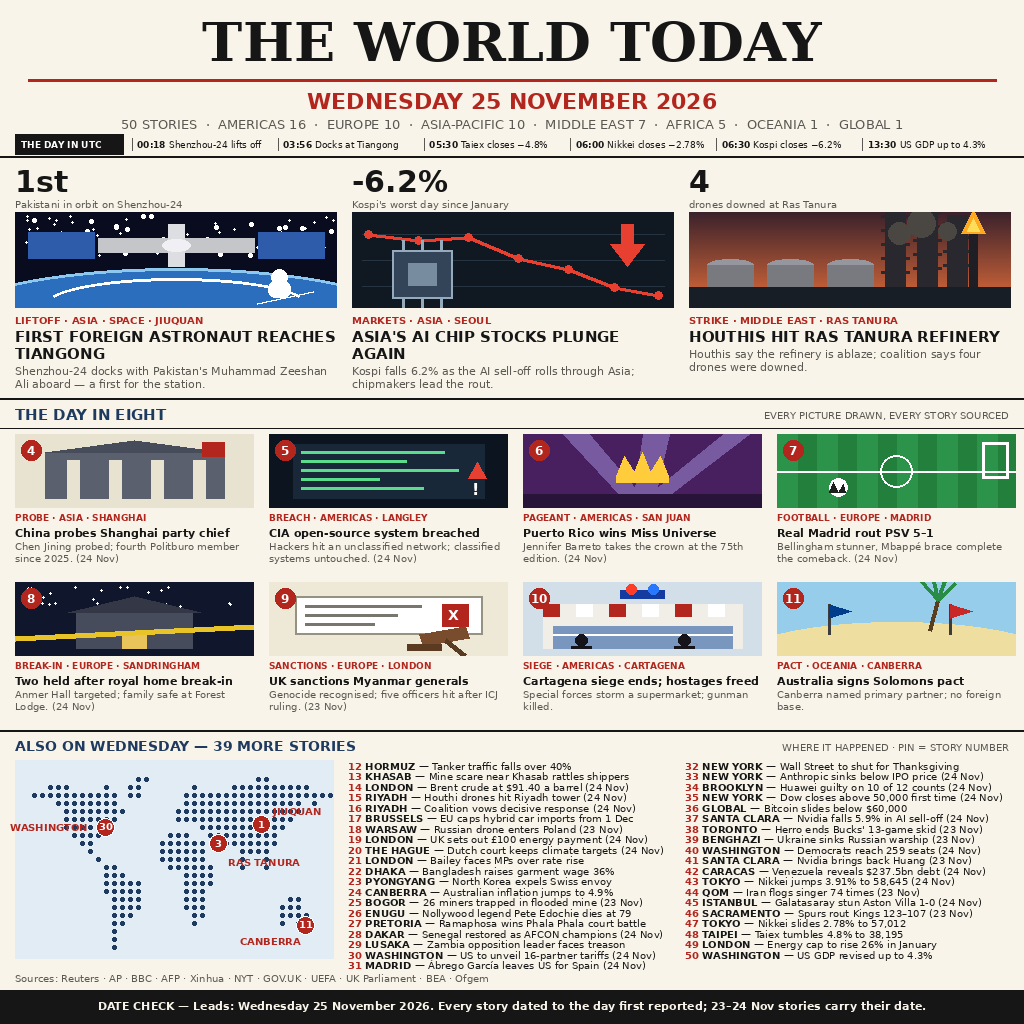
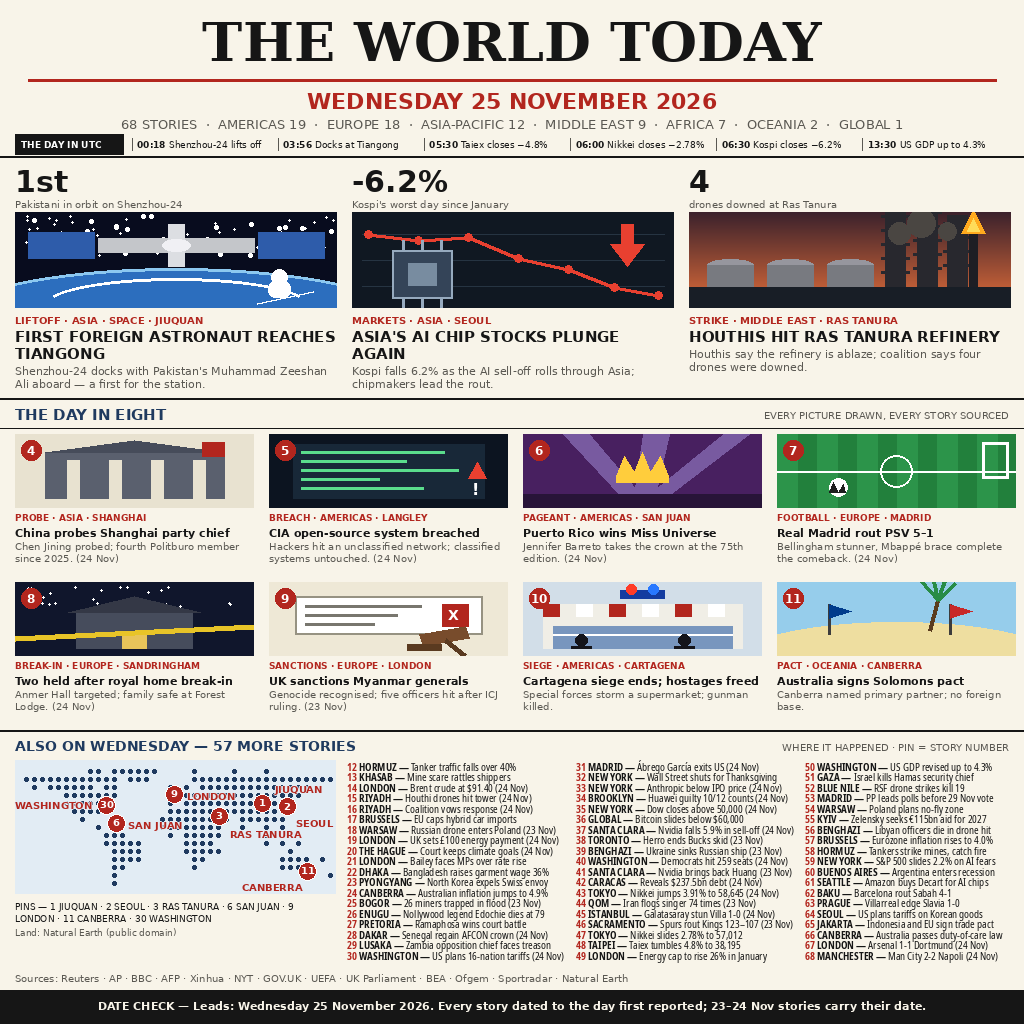
v5 revised: Natural Earth map (true proportions, 7 pins), 68 stories in 3 columns
- Map rebuilt from real Natural Earth 110m land polygons on a true
  equirectangular projection (1px/deg both axes); the old hand-coded
  polygons stretched latitude 1.5x, dropped Arabia, and hid India.
  7 numbered pins on verified coordinates with haloed labels.
- 68 stories (was 50): 57-brief in 3 columns, Noto Sans Condensed
  10px, every headline measured to fit; 18 new briefs all verified
  live 2026-11-26 (Gaza, Blue Nile, Spain polls, Poland no-fly zone,
  Kyiv aid, Benghazi, eurozone CPI, Hormuz mines, S&P, Argentina,
  Amazon/Decart, UCL results, Seoul tariffs, Jakarta pact, Canberra).
- main.py docstring updated to v5 revised; deterministic copy verified.

Changed region(s): [[0.0, 0.7188, 0.9688, 0.9688]]

diff --git a/main.py b/main.py
@@ -17,7 +17,8 @@ def main():
     out_dir = os.environ.get("MAKEFUN_OUTPUT_DIR") or "/output"
     os.makedirs(out_dir, exist_ok=True)
     dst = os.path.join(out_dir, "entry.png")
-    # v5: 50 stories, v3 layout + verified UTC timeline strip.
+    # v5 revised: 68 stories, v3 layout + verified UTC timeline strip,
+    # Natural Earth dotted map with 7 pins, 57-story brief in 3 columns.
     # Deterministic: same input bytes -> same output bytes, every run.
     shutil.copyfile(src, dst)
 
